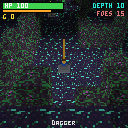
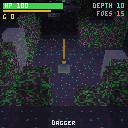
Calm the Fungal Deep floor — readable again
The mycelium floor's dense bright-teal spores made the play area hard to read.
Toned it to a calm dark-purple base with sparse, dim teal specks (spore rate
~1/53, dimmed to (64,150,130); gentler grain) so enemies/drops/hero stand out.
Refreshed band_fungal.png.

diff --git a/engine/src/craft_blocks.c b/engine/src/craft_blocks.c
@@ -267,19 +267,18 @@ static void cave_rock_pattern(uint16_t *dst, uint32_t seed) {
         }
 }
 
-/* Fungal floor: dark blue-purple mycelium speckled with bright bio-
- * luminescent teal spores + a little green moss. */
+/* Fungal floor: calm dark purple mycelium with a FEW dim teal spore specks —
+ * kept low-contrast so gameplay (enemies, drops, the hero) stays readable. */
 static void mycelium_pattern(uint16_t *dst, uint32_t seed) {
     uint32_t s = seed;
     for (int y = 0; y < CRAFT_TEX_SIZE; y++)
         for (int x = 0; x < CRAFT_TEX_SIZE; x++) {
             uint32_t h = (uint32_t)((x+3)*40503) ^ (uint32_t)((y+7)*12289) ^ seed;
             h ^= h >> 13; h *= 0x9E3779B1u; h ^= h >> 16;
-            int j = ((int)(xs32(&s) & 0xf) - 8);
-            int r = 52 + j, g = 40 + j, b = 72 + j;                 /* dark purple */
-            if ((h & 0xf) == 0)        { r = 90; g = 240; b = 200; }    /* glowing spore */
-            else if ((h % 17u) == 0)   { r = 60; g = 130; b = 80;  }    /* moss fleck */
-            else if ((h % 13u) == 0)   { r += 26; g += 12; b += 32; }   /* lighter mottle */
+            int j = ((int)(xs32(&s) & 0x7) - 4);                    /* gentle grain */
+            int r = 56 + j, g = 46 + j, b = 76 + j;                 /* dark purple base */
+            if ((h % 53u) == 0)        { r = 64; g = 150; b = 130; }    /* rare, dim spore */
+            else if ((h % 29u) == 0)   { r += 10; g += 8; b += 14; }    /* faint mottle */
             dst[y * CRAFT_TEX_SIZE + x] = rgb565(r, g, b);
         }
 }
